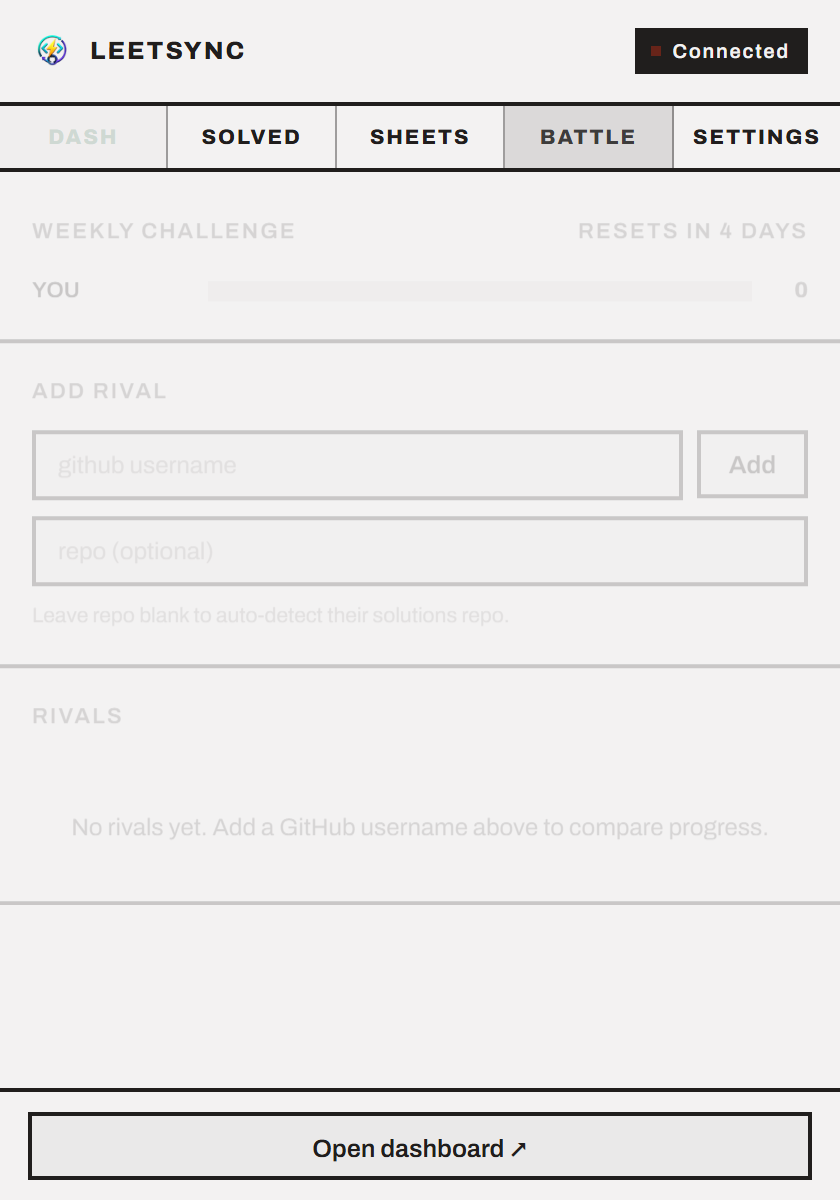
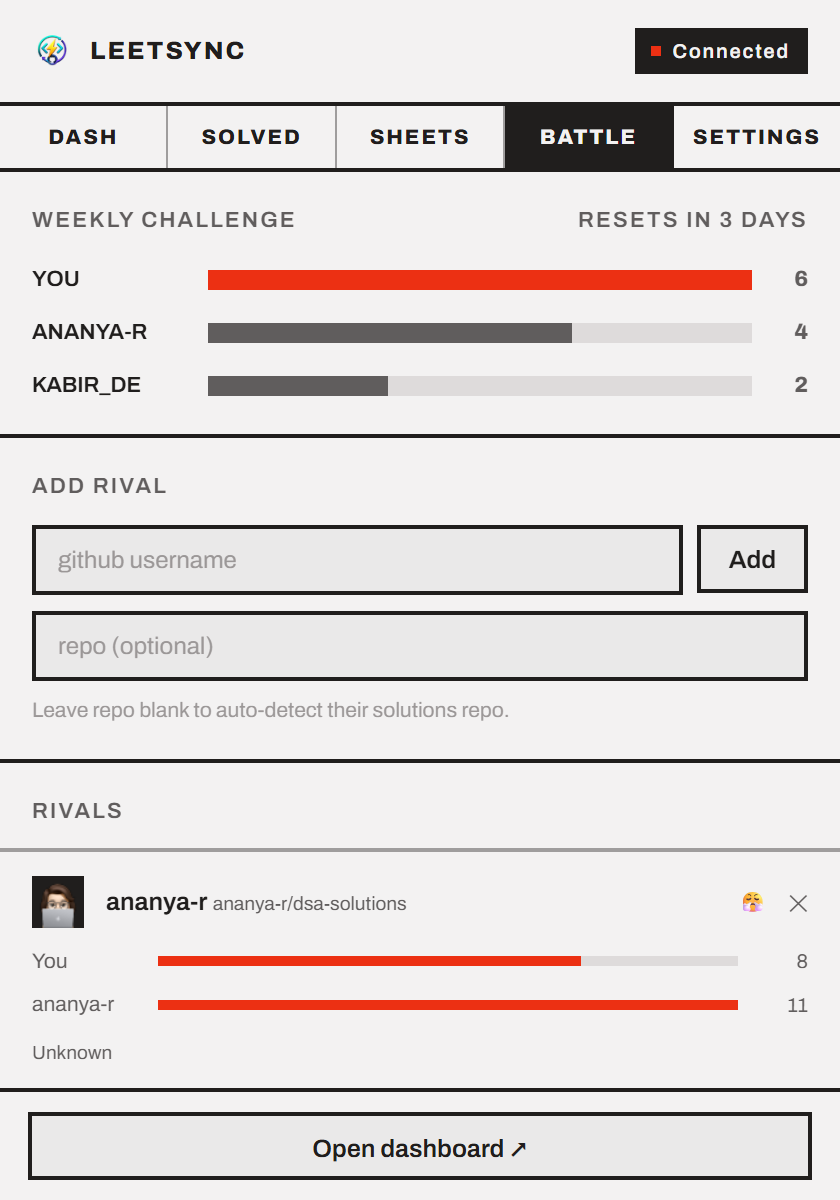
Add a sheets section, and recapture Solved and Battle
The Solved and Battle shots were caught mid-animation — half-faded, with the
previous tab still lit — and Battle was showing its empty state, which is not
what that screen is for. Recaptured with animations frozen and with rivals
present, and the solved list now leads with a mix of difficulties and
languages instead of six Easy rows.

New "What is inside" section listing every sheet that ships, generated from
the extension's own sheets.json rather than typed out: seven sheets, 1667
rows, 895 unique problems after de-duplication, with each sheet's section
count and how many of its rows are auto-tracked. Added to the nav and the
scroll rail.

diff --git a/index.html b/index.html
@@ -45,6 +45,10 @@
       <span data-rail-bar style="display:block;width:16px;height:2px;background:var(--bd);transition:width .3s,background .3s"></span>
       <span style="font-family:var(--f-mono);font-size:9.5px;letter-spacing:.14em;text-transform:uppercase;opacity:0;transition:opacity .3s">Tracker</span>
     </a>
+    <a data-rail-dot href="#sheets" style="display:flex;align-items:center;gap:10px;text-decoration:none;padding:5px 0;color:var(--tx4)">
+      <span data-rail-bar style="display:block;width:16px;height:2px;background:var(--bd);transition:width .3s,background .3s"></span>
+      <span style="font-family:var(--f-mono);font-size:9.5px;letter-spacing:.14em;text-transform:uppercase;opacity:0;transition:opacity .3s">Sheets</span>
+    </a>
     <a data-rail-dot href="#readme" style="display:flex;align-items:center;gap:10px;text-decoration:none;padding:5px 0;color:var(--tx4)">
       <span data-rail-bar style="display:block;width:16px;height:2px;background:var(--bd);transition:width .3s,background .3s"></span>
       <span style="font-family:var(--f-mono);font-size:9.5px;letter-spacing:.14em;text-transform:uppercase;opacity:0;transition:opacity .3s">Readme</span>
@@ -64,6 +68,7 @@
       <a data-navlink href="#features" style="color:var(--tx3);text-decoration:none;font-size:14.5px;transition:color .2s">Features</a>
       <a data-navlink href="#flow" style="color:var(--tx3);text-decoration:none;font-size:14.5px;transition:color .2s">How it works</a>
       <a data-navlink href="#screens" style="color:var(--tx3);text-decoration:none;font-size:14.5px;transition:color .2s">Screens</a>
+      <a data-navlink href="#sheets" style="color:var(--tx3);text-decoration:none;font-size:14.5px;transition:color .2s">Sheets</a>
       <a data-navlink href="#readme" style="color:var(--tx3);text-decoration:none;font-size:14.5px;transition:color .2s">Your README</a>
       <a data-navlink href="#privacy" style="color:var(--tx3);text-decoration:none;font-size:14.5px;transition:color .2s">Privacy</a>
     </nav>
@@ -337,6 +342,110 @@
         <div data-tracker-shot style="border:var(--bw) solid var(--bd);border-radius:var(--r-card);overflow:hidden;background:var(--card);box-shadow:var(--shadow);transform-style:preserve-3d;transition:box-shadow .45s,border-radius .4s,border-color .45s;will-change:transform">
           <img data-shot="tracker" src="img/tracker-dark.png" alt="LeetSync study tracker showing all sheets, progress and a filterable problem list" width="2560" height="1800" loading="lazy" style="width:100%">
         </div>
+      </div>
+    </section>
+
+    <section id="sheets" style="background:var(--band);padding:clamp(56px,9vw,110px) clamp(16px,4vw,44px);transition:background .45s">
+      <div style="max-width:1280px;margin:0 auto">
+        <div style="max-width:62ch;margin-bottom:clamp(32px,5vw,56px)">
+          <span data-reveal="up" style="display:inline-block;font-family:var(--f-mono);font-size:11px;letter-spacing:.16em;text-transform:uppercase;color:var(--kick-c);font-weight:var(--kick-w);margin-bottom:14px">What is inside</span>
+          <h2 data-reveal="up" data-reveal-delay="60" style="font-family:var(--f-head);font-weight:var(--head-w);letter-spacing:var(--head-ls);text-transform:var(--head-tt);margin:0;line-height:1.05;font-size:clamp(30px,4.2vw,46px)">Seven sheets, 1667 rows, 895 problems</h2>
+          <p data-reveal="up" data-reveal-delay="120" style="color:var(--tx3);font-size:16.5px;margin:16px 0 0;text-wrap:pretty">Every sheet ships with the extension — no download, no account. They overlap heavily, so the 1667 rows across them collapse to <strong style="color:var(--tx2)">895 unique problems</strong>. Solve one and it ticks everywhere it appears.</p>
+        </div>
+        <div style="display:grid;grid-template-columns:repeat(auto-fit,minmax(290px,1fr));gap:18px">
+        <article data-reveal="up" data-magnet style="position:relative;isolation:isolate;overflow:hidden;padding:22px 24px 24px;background:var(--card);border:var(--bw) solid var(--bd);border-radius:var(--r-card);box-shadow:var(--card-sh);transition:opacity .7s,transform .35s cubic-bezier(.2,.7,.2,1),border-color .3s,box-shadow .3s,background .45s;will-change:transform">
+          <span data-sweep style="position:absolute;left:0;top:0;height:3px;width:0;background:var(--ac);transition:width .55s cubic-bezier(.2,.7,.2,1)"></span>
+          <div style="display:flex;align-items:baseline;justify-content:space-between;gap:14px;flex-wrap:wrap">
+            <h3 style="font-family:var(--f-head);font-weight:var(--head-w);letter-spacing:var(--head-ls);text-transform:var(--head-tt);margin:0;font-size:17px;line-height:1.2">Striver's A2Z DSA Sheet</h3>
+            <span style="font-family:var(--f-mono);font-size:19px;color:var(--ac);transition:color .45s">474</span>
+          </div>
+          <div style="display:block;height:6px;margin:14px 0 10px;background:var(--hover);border-radius:calc(var(--r-sm) / 2);overflow:hidden;transition:background .45s">
+            <span style="display:block;height:100%;width:100.0%;background:var(--ac);transition:background .45s"></span>
+          </div>
+          <div style="display:flex;justify-content:space-between;gap:12px;font-family:var(--f-mono);font-size:10px;letter-spacing:.12em;text-transform:uppercase;color:var(--tx4)">
+            <span>18 sections</span><span>259 auto-tracked · 55%</span>
+          </div>
+        </article>
+        <article data-reveal="up" data-reveal-delay="60" data-magnet style="position:relative;isolation:isolate;overflow:hidden;padding:22px 24px 24px;background:var(--card);border:var(--bw) solid var(--bd);border-radius:var(--r-card);box-shadow:var(--card-sh);transition:opacity .7s,transform .35s cubic-bezier(.2,.7,.2,1),border-color .3s,box-shadow .3s,background .45s;will-change:transform">
+          <span data-sweep style="position:absolute;left:0;top:0;height:3px;width:0;background:var(--ac);transition:width .55s cubic-bezier(.2,.7,.2,1)"></span>
+          <div style="display:flex;align-items:baseline;justify-content:space-between;gap:14px;flex-wrap:wrap">
+            <h3 style="font-family:var(--f-head);font-weight:var(--head-w);letter-spacing:var(--head-ls);text-transform:var(--head-tt);margin:0;font-size:17px;line-height:1.2">Love Babbar 450 DSA Sheet</h3>
+            <span style="font-family:var(--f-mono);font-size:19px;color:var(--ac);transition:color .45s">448</span>
+          </div>
+          <div style="display:block;height:6px;margin:14px 0 10px;background:var(--hover);border-radius:calc(var(--r-sm) / 2);overflow:hidden;transition:background .45s">
+            <span style="display:block;height:100%;width:94.5%;background:var(--ac);transition:background .45s"></span>
+          </div>
+          <div style="display:flex;justify-content:space-between;gap:12px;font-family:var(--f-mono);font-size:10px;letter-spacing:.12em;text-transform:uppercase;color:var(--tx4)">
+            <span>15 sections</span><span>208 auto-tracked · 46%</span>
+          </div>
+        </article>
+        <article data-reveal="up" data-reveal-delay="120" data-magnet style="position:relative;isolation:isolate;overflow:hidden;padding:22px 24px 24px;background:var(--card);border:var(--bw) solid var(--bd);border-radius:var(--r-card);box-shadow:var(--card-sh);transition:opacity .7s,transform .35s cubic-bezier(.2,.7,.2,1),border-color .3s,box-shadow .3s,background .45s;will-change:transform">
+          <span data-sweep style="position:absolute;left:0;top:0;height:3px;width:0;background:var(--ac);transition:width .55s cubic-bezier(.2,.7,.2,1)"></span>
+          <div style="display:flex;align-items:baseline;justify-content:space-between;gap:14px;flex-wrap:wrap">
+            <h3 style="font-family:var(--f-head);font-weight:var(--head-w);letter-spacing:var(--head-ls);text-transform:var(--head-tt);margin:0;font-size:17px;line-height:1.2">NeetCode 250</h3>
+            <span style="font-family:var(--f-mono);font-size:19px;color:var(--ac);transition:color .45s">250</span>
+          </div>
+          <div style="display:block;height:6px;margin:14px 0 10px;background:var(--hover);border-radius:calc(var(--r-sm) / 2);overflow:hidden;transition:background .45s">
+            <span style="display:block;height:100%;width:52.7%;background:var(--ac);transition:background .45s"></span>
+          </div>
+          <div style="display:flex;justify-content:space-between;gap:12px;font-family:var(--f-mono);font-size:10px;letter-spacing:.12em;text-transform:uppercase;color:var(--tx4)">
+            <span>18 sections</span><span>250 auto-tracked · 100%</span>
+          </div>
+        </article>
+        <article data-reveal="up" data-reveal-delay="180" data-magnet style="position:relative;isolation:isolate;overflow:hidden;padding:22px 24px 24px;background:var(--card);border:var(--bw) solid var(--bd);border-radius:var(--r-card);box-shadow:var(--card-sh);transition:opacity .7s,transform .35s cubic-bezier(.2,.7,.2,1),border-color .3s,box-shadow .3s,background .45s;will-change:transform">
+          <span data-sweep style="position:absolute;left:0;top:0;height:3px;width:0;background:var(--ac);transition:width .55s cubic-bezier(.2,.7,.2,1)"></span>
+          <div style="display:flex;align-items:baseline;justify-content:space-between;gap:14px;flex-wrap:wrap">
+            <h3 style="font-family:var(--f-head);font-weight:var(--head-w);letter-spacing:var(--head-ls);text-transform:var(--head-tt);margin:0;font-size:17px;line-height:1.2">Striver's SDE Sheet</h3>
+            <span style="font-family:var(--f-mono);font-size:19px;color:var(--ac);transition:color .45s">191</span>
+          </div>
+          <div style="display:block;height:6px;margin:14px 0 10px;background:var(--hover);border-radius:calc(var(--r-sm) / 2);overflow:hidden;transition:background .45s">
+            <span style="display:block;height:100%;width:40.3%;background:var(--ac);transition:background .45s"></span>
+          </div>
+          <div style="display:flex;justify-content:space-between;gap:12px;font-family:var(--f-mono);font-size:10px;letter-spacing:.12em;text-transform:uppercase;color:var(--tx4)">
+            <span>27 sections</span><span>146 auto-tracked · 76%</span>
+          </div>
+        </article>
+        <article data-reveal="up" data-reveal-delay="240" data-magnet style="position:relative;isolation:isolate;overflow:hidden;padding:22px 24px 24px;background:var(--card);border:var(--bw) solid var(--bd);border-radius:var(--r-card);box-shadow:var(--card-sh);transition:opacity .7s,transform .35s cubic-bezier(.2,.7,.2,1),border-color .3s,box-shadow .3s,background .45s;will-change:transform">
+          <span data-sweep style="position:absolute;left:0;top:0;height:3px;width:0;background:var(--ac);transition:width .55s cubic-bezier(.2,.7,.2,1)"></span>
+          <div style="display:flex;align-items:baseline;justify-content:space-between;gap:14px;flex-wrap:wrap">
+            <h3 style="font-family:var(--f-head);font-weight:var(--head-w);letter-spacing:var(--head-ls);text-transform:var(--head-tt);margin:0;font-size:17px;line-height:1.2">NeetCode 150</h3>
+            <span style="font-family:var(--f-mono);font-size:19px;color:var(--ac);transition:color .45s">150</span>
+          </div>
+          <div style="display:block;height:6px;margin:14px 0 10px;background:var(--hover);border-radius:calc(var(--r-sm) / 2);overflow:hidden;transition:background .45s">
+            <span style="display:block;height:100%;width:31.6%;background:var(--ac);transition:background .45s"></span>
+          </div>
+          <div style="display:flex;justify-content:space-between;gap:12px;font-family:var(--f-mono);font-size:10px;letter-spacing:.12em;text-transform:uppercase;color:var(--tx4)">
+            <span>18 sections</span><span>150 auto-tracked · 100%</span>
+          </div>
+        </article>
+        <article data-reveal="up" data-reveal-delay="300" data-magnet style="position:relative;isolation:isolate;overflow:hidden;padding:22px 24px 24px;background:var(--card);border:var(--bw) solid var(--bd);border-radius:var(--r-card);box-shadow:var(--card-sh);transition:opacity .7s,transform .35s cubic-bezier(.2,.7,.2,1),border-color .3s,box-shadow .3s,background .45s;will-change:transform">
+          <span data-sweep style="position:absolute;left:0;top:0;height:3px;width:0;background:var(--ac);transition:width .55s cubic-bezier(.2,.7,.2,1)"></span>
+          <div style="display:flex;align-items:baseline;justify-content:space-between;gap:14px;flex-wrap:wrap">
+            <h3 style="font-family:var(--f-head);font-weight:var(--head-w);letter-spacing:var(--head-ls);text-transform:var(--head-tt);margin:0;font-size:17px;line-height:1.2">Striver's 79 Sheet</h3>
+            <span style="font-family:var(--f-mono);font-size:19px;color:var(--ac);transition:color .45s">79</span>
+          </div>
+          <div style="display:block;height:6px;margin:14px 0 10px;background:var(--hover);border-radius:calc(var(--r-sm) / 2);overflow:hidden;transition:background .45s">
+            <span style="display:block;height:100%;width:16.7%;background:var(--ac);transition:background .45s"></span>
+          </div>
+          <div style="display:flex;justify-content:space-between;gap:12px;font-family:var(--f-mono);font-size:10px;letter-spacing:.12em;text-transform:uppercase;color:var(--tx4)">
+            <span>11 sections</span><span>65 auto-tracked · 82%</span>
+          </div>
+        </article>
+        <article data-reveal="up" data-reveal-delay="360" data-magnet style="position:relative;isolation:isolate;overflow:hidden;padding:22px 24px 24px;background:var(--card);border:var(--bw) solid var(--bd);border-radius:var(--r-card);box-shadow:var(--card-sh);transition:opacity .7s,transform .35s cubic-bezier(.2,.7,.2,1),border-color .3s,box-shadow .3s,background .45s;will-change:transform">
+          <span data-sweep style="position:absolute;left:0;top:0;height:3px;width:0;background:var(--ac);transition:width .55s cubic-bezier(.2,.7,.2,1)"></span>
+          <div style="display:flex;align-items:baseline;justify-content:space-between;gap:14px;flex-wrap:wrap">
+            <h3 style="font-family:var(--f-head);font-weight:var(--head-w);letter-spacing:var(--head-ls);text-transform:var(--head-tt);margin:0;font-size:17px;line-height:1.2">Striver's Blind 75</h3>
+            <span style="font-family:var(--f-mono);font-size:19px;color:var(--ac);transition:color .45s">75</span>
+          </div>
+          <div style="display:block;height:6px;margin:14px 0 10px;background:var(--hover);border-radius:calc(var(--r-sm) / 2);overflow:hidden;transition:background .45s">
+            <span style="display:block;height:100%;width:15.8%;background:var(--ac);transition:background .45s"></span>
+          </div>
+          <div style="display:flex;justify-content:space-between;gap:12px;font-family:var(--f-mono);font-size:10px;letter-spacing:.12em;text-transform:uppercase;color:var(--tx4)">
+            <span>10 sections</span><span>74 auto-tracked · 99%</span>
+          </div>
+        </article>
+        </div>
+        <p data-reveal="up" style="margin-top:26px;color:var(--tx4);font-size:14px;font-family:var(--f-mono)">Auto-tracked means the row is matched to a LeetCode problem, so solving it ticks itself. The rest are articles or non-LeetCode exercises you tick by hand.</p>
       </div>
     </section>
 

diff --git a/site.js b/site.js
@@ -67,7 +67,7 @@ const NOTES = {
   battle: 'Battle — compare progress with friends by GitHub username',
   settings: 'Settings — repository, themes, data export and usage reporting',
 };
-const RAIL_IDS = ['top', 'features', 'flow', 'screens', 'tracker', 'readme', 'privacy'];
+const RAIL_IDS = ['top', 'features', 'flow', 'screens', 'tracker', 'sheets', 'readme', 'privacy'];
 
 /**
  * The Chrome Web Store listing.
